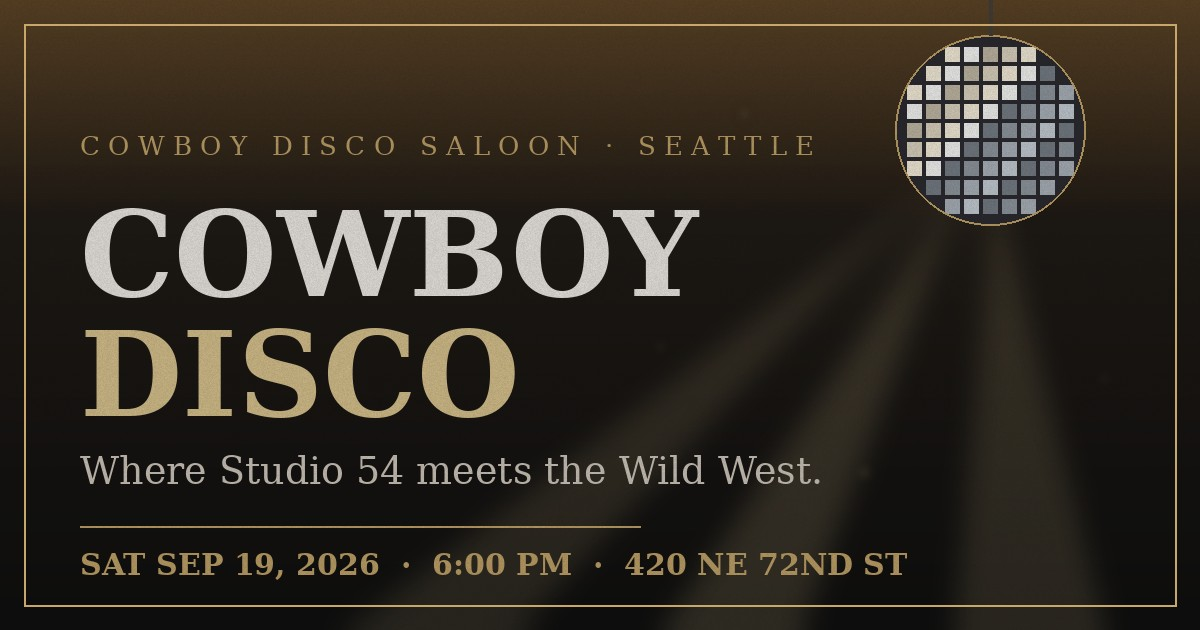
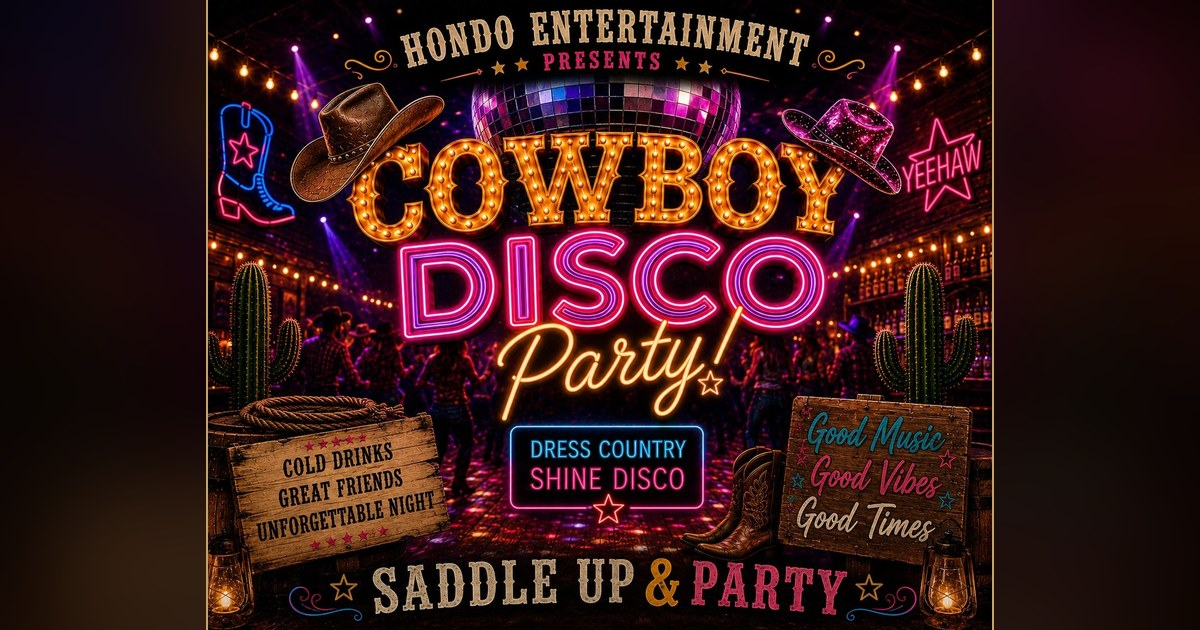
Match the link preview image to the Partiful poster (#17)
Sharing the site produced a generated typographic card while the Partiful
invite showed the neon poster, so the same party looked like two different
events depending on which link someone opened.

The share card is now built from assets/poster-official.jpg. Scrapers render
1.91:1 and the poster is 5:4, so cropping to fit would cut "HONDO
ENTERTAINMENT PRESENTS" off the top and "SADDLE UP & PARTY" off the bottom.
Instead the poster is contained at full card height over a blurred, dimmed
copy of itself, with champagne hairlines marking the panel edge — nothing
is cropped away.

Also:

- scripts/generate-premium-editorial.py would have redrawn the old card, and
  the two moment illustrations replaced last change, on its next run. Each
  slot now names the file that proves real imagery owns it and skips itself
  when that file is present. Verified: a full run draws nothing and leaves
  all three checksums unchanged.
- vote.html carried two og:title/og:description/og:image blocks, and the
  first pointed at the stale poster-og.jpg. Deduped to one block.
- Service worker cache v45 so the precached card refreshes.

Verified: 99/99 precache entries resolve, every og:image and twitter:image
target exists on disk, no duplicate OG tags on any page, and index.html and
vote.html load clean (only the Vercel analytics scripts 404, which is
expected off-platform).

https://claude.ai/code/session_01RQxgPetRB2BNnArUaiFyPr

diff --git a/vote.html b/vote.html
@@ -6,13 +6,10 @@
   <meta name="description" content="Vote for best outfit at the Cowboy Disco Party — best cowboy-disco look wins.">
   <meta property="og:title" content="Best Outfit Vote | Cowboy Disco Party">
   <meta property="og:description" content="Cast your vote by contestant number — live leaderboard until 9 PM.">
-  <meta property="og:image" content="https://cowboy-disco-party.vercel.app/assets/poster-og.jpg">
   <meta name="theme-color" content="#0D0D0D">
   <title>Best Outfit Vote | Cowboy Disco Party</title>
   <link rel="canonical" href="https://cowboy-disco-party.vercel.app/vote.html">
   <meta property="og:type" content="website">
-  <meta property="og:title" content="Best Outfit Vote | Cowboy Disco Party">
-  <meta property="og:description" content="Vote for best outfit at the Cowboy Disco Party — best cowboy-disco look wins.">
   <meta property="og:url" content="https://cowboy-disco-party.vercel.app/vote.html">
   <meta property="og:image" content="https://cowboy-disco-party.vercel.app/assets/og-card.jpg">
   <meta name="twitter:card" content="summary_large_image">

diff --git a/sw.js b/sw.js
@@ -1,4 +1,4 @@
-const CACHE = "cdp-v44";
+const CACHE = "cdp-v45";
 const ASSETS = [
   "/",
   "/index.html",

diff --git a/scripts/build-og-card.py b/scripts/build-og-card.py
@@ -1,0 +1,77 @@
+#!/usr/bin/env python3
+"""Build the social share card from the official poster.
+
+The link preview for the site should show the same artwork the Partiful
+invite shows, so guests recognise it as the same party wherever the link
+lands. Scrapers want a 1.91:1 image; the poster is 5:4. Rather than crop —
+which would cut "HONDO ENTERTAINMENT PRESENTS" off the top and "SADDLE UP &
+PARTY" off the bottom — the poster is contained full-height on a 1200x630
+canvas over a blurred, darkened copy of itself.
+
+    python scripts/build-og-card.py
+
+Reads assets/poster-official.jpg, writes assets/og-card.jpg.
+"""
+
+from __future__ import annotations
+
+from pathlib import Path
+
+from PIL import Image, ImageDraw, ImageEnhance, ImageFilter
+
+ROOT = Path(__file__).resolve().parents[1]
+ASSETS = ROOT / "assets"
+
+SOURCE = ASSETS / "poster-official.jpg"
+OUT = ASSETS / "og-card.jpg"
+
+CARD_W, CARD_H = 1200, 630        # 1.91:1, the ratio every scraper renders
+BACKDROP_BLUR = 44
+BACKDROP_DIM = 0.42               # brightness multiplier on the blurred fill
+CHAMPAGNE = (196, 164, 102)
+QUALITY = 88
+
+
+def cover(img: Image.Image, w: int, h: int) -> Image.Image:
+    src, dst = img.width / img.height, w / h
+    if src > dst:
+        new_w = int(img.height * dst)
+        left = (img.width - new_w) // 2
+        img = img.crop((left, 0, left + new_w, img.height))
+    else:
+        new_h = int(img.width / dst)
+        top = (img.height - new_h) // 2
+        img = img.crop((0, top, img.width, top + new_h))
+    return img.resize((w, h), Image.Resampling.LANCZOS)
+
+
+def main() -> None:
+    if not SOURCE.exists():
+        raise SystemExit(f"missing: {SOURCE}")
+    poster = Image.open(SOURCE).convert("RGB")
+
+    # Blurred, dimmed fill so the side panels read as part of the artwork
+    # rather than as empty letterbox bars.
+    backdrop = cover(poster, CARD_W, CARD_H)
+    backdrop = backdrop.filter(ImageFilter.GaussianBlur(BACKDROP_BLUR))
+    backdrop = ImageEnhance.Brightness(backdrop).enhance(BACKDROP_DIM)
+
+    # Poster contained at full card height — nothing is cropped away.
+    panel_w = round(poster.width * CARD_H / poster.height)
+    panel = poster.resize((panel_w, CARD_H), Image.Resampling.LANCZOS)
+    x = (CARD_W - panel_w) // 2
+
+    card = backdrop
+    card.paste(panel, (x, 0))
+
+    # Hairlines define the poster edge against the blurred fill.
+    draw = ImageDraw.Draw(card)
+    draw.line((x, 0, x, CARD_H), fill=CHAMPAGNE, width=2)
+    draw.line((x + panel_w - 1, 0, x + panel_w - 1, CARD_H), fill=CHAMPAGNE, width=2)
+
+    card.save(OUT, format="JPEG", quality=QUALITY, optimize=True, progressive=True)
+    print(f"{OUT.name}  {CARD_W}x{CARD_H}  poster panel {panel_w}px  {OUT.stat().st_size // 1024} KB")
+
+
+if __name__ == "__main__":
+    main()

diff --git a/scripts/generate-premium-editorial.py b/scripts/generate-premium-editorial.py
@@ -470,24 +470,42 @@ def og_card() -> None:
 
 
 def main() -> None:
+    """Draw only the slots that no real image has taken over.
+
+    Every slot here started as an illustration and has since been replaced by
+    photography, so this script is a fallback generator now. Each entry below
+    names the file that proves a real image owns the slot; when that file is
+    present the illustration is skipped rather than written over it.
+    """
     ASSETS.mkdir(parents=True, exist_ok=True)
-    if (ASSETS / "stock-credits.json").exists():
-        # The atmosphere/wardrobe/cocktails/dance slots are stock-photo
-        # managed (scripts/fetch-stock-editorial.py) — only regenerate the
-        # illustration-only assets so the photos are never overwritten.
-        editorial_photobooth()
-        editorial_highlights()
-        og_card()
-        print("Stock photos present — regenerated photobooth, highlights, and OG card only")
-        return
-    editorial_atmosphere()
-    editorial_wardrobe()
-    editorial_cocktails()
-    editorial_dancefloor()
-    editorial_photobooth()
-    editorial_highlights()
-    og_card()
-    print("Premium editorial assets written to assets/")
+
+    stock = ASSETS / "stock-credits.json"
+    slots = [
+        # (function, marker that a real image owns this slot)
+        (editorial_atmosphere, stock),
+        (editorial_wardrobe, stock),
+        (editorial_cocktails, stock),
+        (editorial_dancefloor, stock),
+        # scripts/crop-moment-photos.py writes a .webp beside each .jpg;
+        # the illustrations only ever wrote .jpg.
+        (editorial_photobooth, ASSETS / "editorial-photobooth.webp"),
+        (editorial_highlights, ASSETS / "editorial-highlights.webp"),
+        # scripts/build-og-card.py derives the share card from the poster.
+        (og_card, ASSETS / "poster-official.jpg"),
+    ]
+
+    drawn, skipped = [], []
+    for fn, marker in slots:
+        name = fn.__name__
+        if marker.exists():
+            skipped.append(name)
+            continue
+        fn()
+        drawn.append(name)
+
+    print(f"drew: {', '.join(drawn) or 'nothing'}")
+    if skipped:
+        print(f"skipped (real imagery in place): {', '.join(skipped)}")
 
 
 if __name__ == "__main__":
